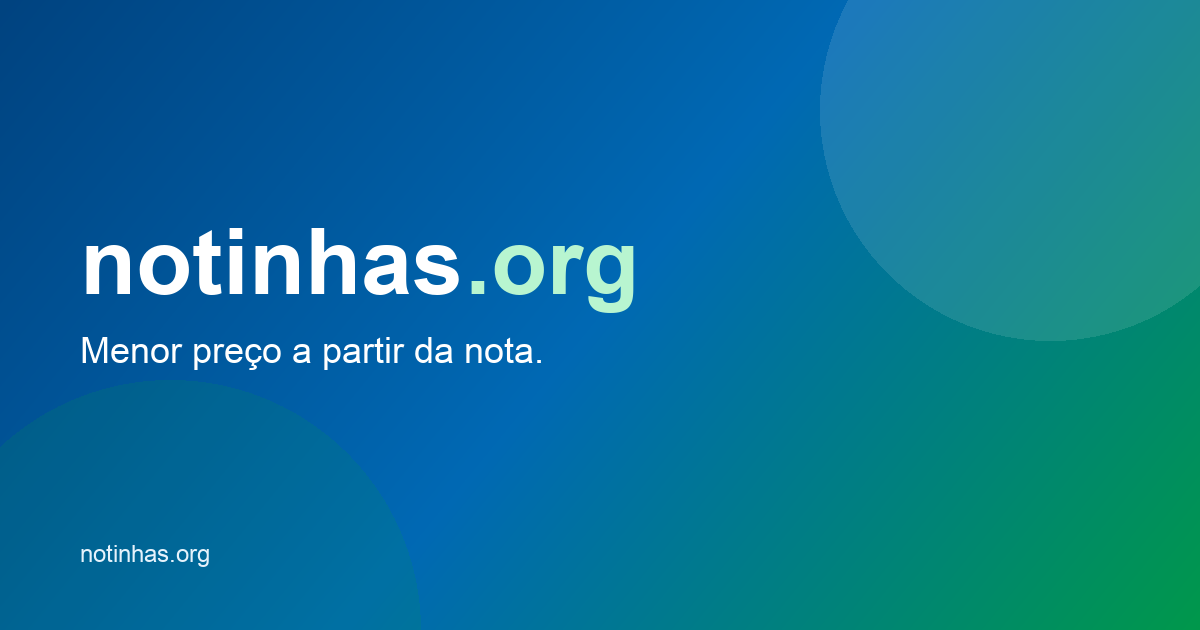
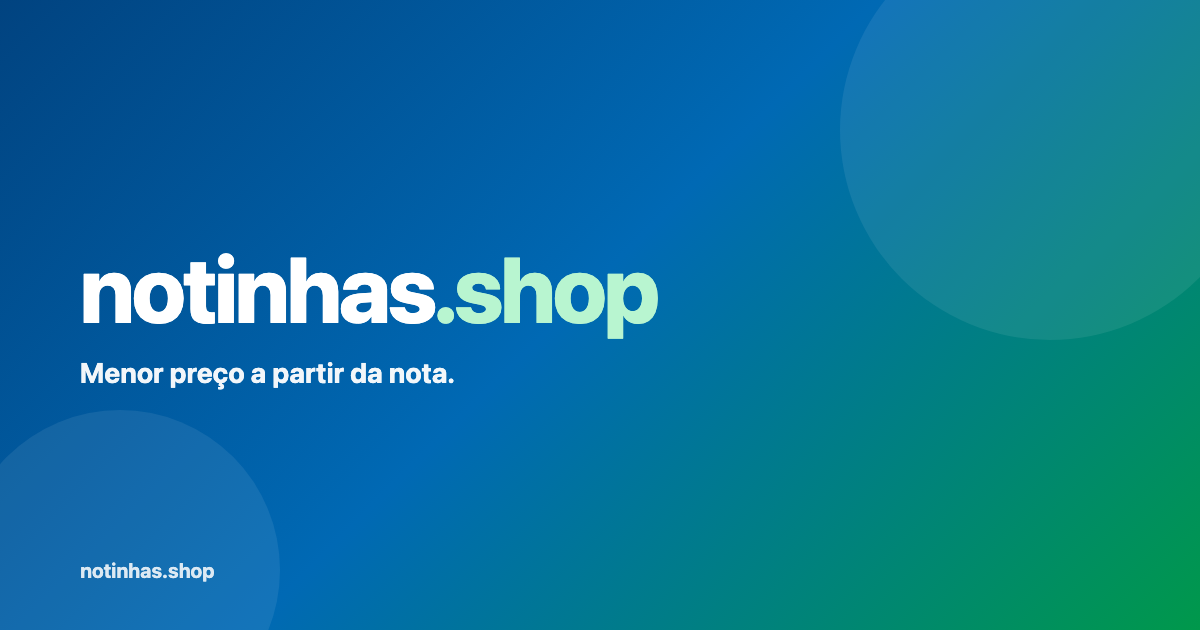
Atualiza OG e REQ-024 para wordmark notinhas.shop no app (local e Contabo).
Remove residual notinhas.org da imagem de share; documenta espelho em /opt/e-notas/public/.

diff --git a/e-notas/docs/requisitos.md b/e-notas/docs/requisitos.md
@@ -187,6 +187,13 @@ Curadoria: [`../marca/benchmarking-solucoes/README.md`](../marca/benchmarking-so
 - Craft de referência: [`../../core/shadcn-design/README.md`](../../core/shadcn-design/README.md) — regras Stripe/Linear/Vercel; paleta própria azul+verde.
 - Rollback: remover os dois arquivos v2; UI/tokens hex da v1 permanecem.
 
+## REQ-024 — App wordmark notinhas.shop (local + Contabo) (2026-11-01)
+
+- UI do app (`app/public/index.html`, `scan.html`, `lista.html`) e OG (`og-image.png`) usam **notinhas.shop** (não `notinhas.org`).
+- Contabo `/opt/e-notas/public/` espelha esses arquivos (mesmo Node `:4174` / `/enotas/` / site `notinhas`).
+- Antes → depois: título/wordmark/OG `.org` → `.shop`.
+- Rollback: restaurar HTML + `og-image.png` do commit anterior; no remoto, `scp` dos arquivos antigos para `/opt/e-notas/public/`.
+
 ---
 
 ## Próximos passos
